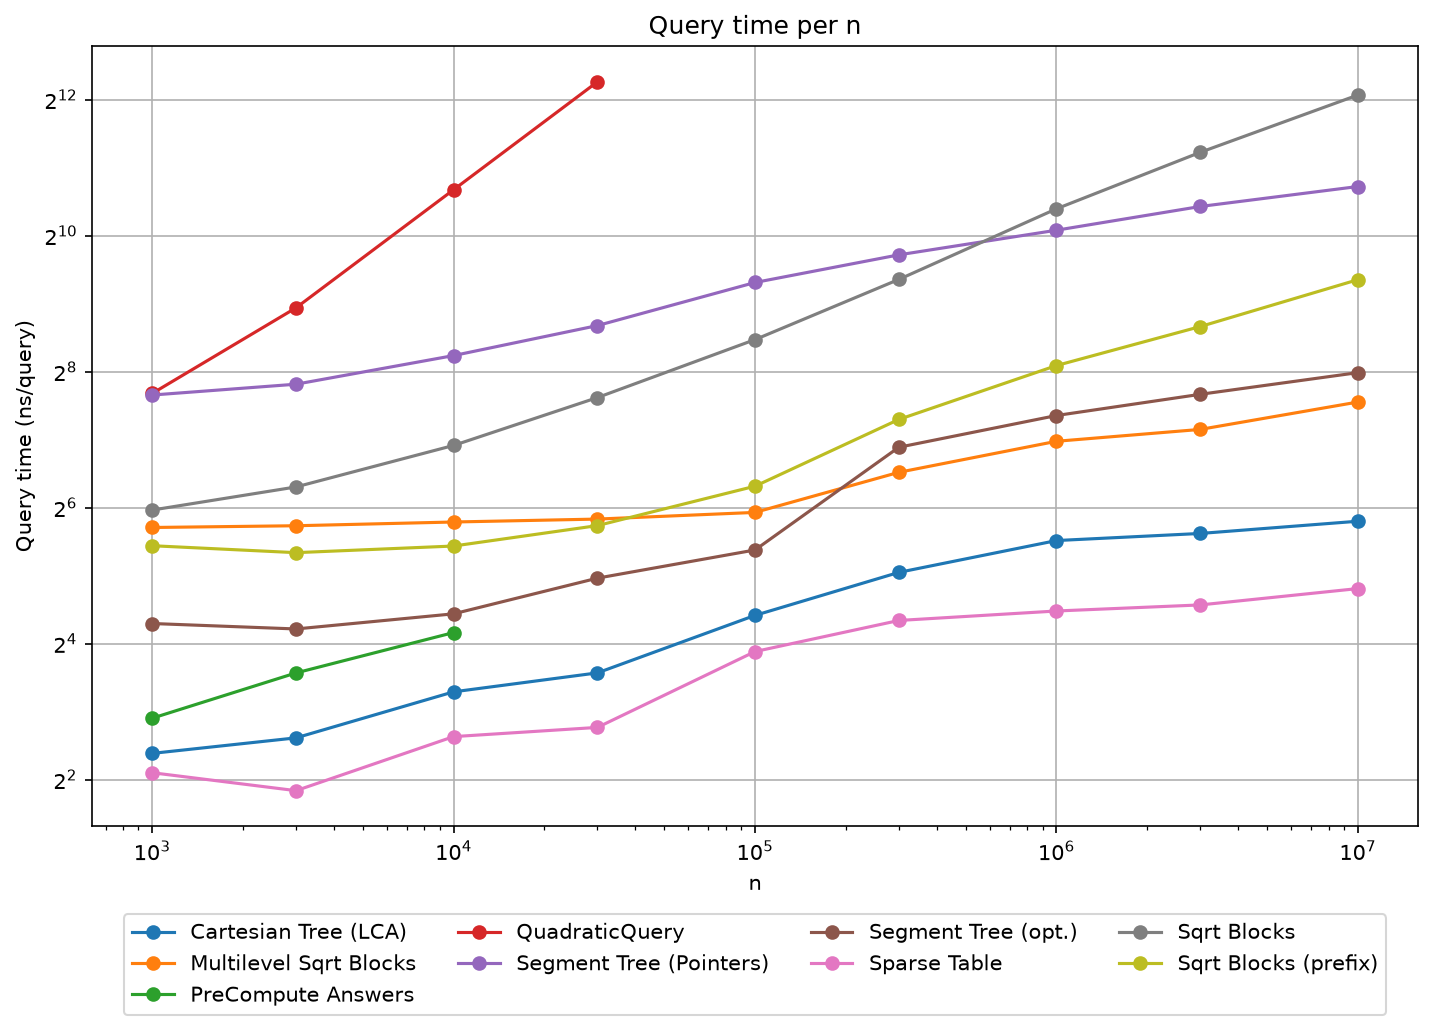
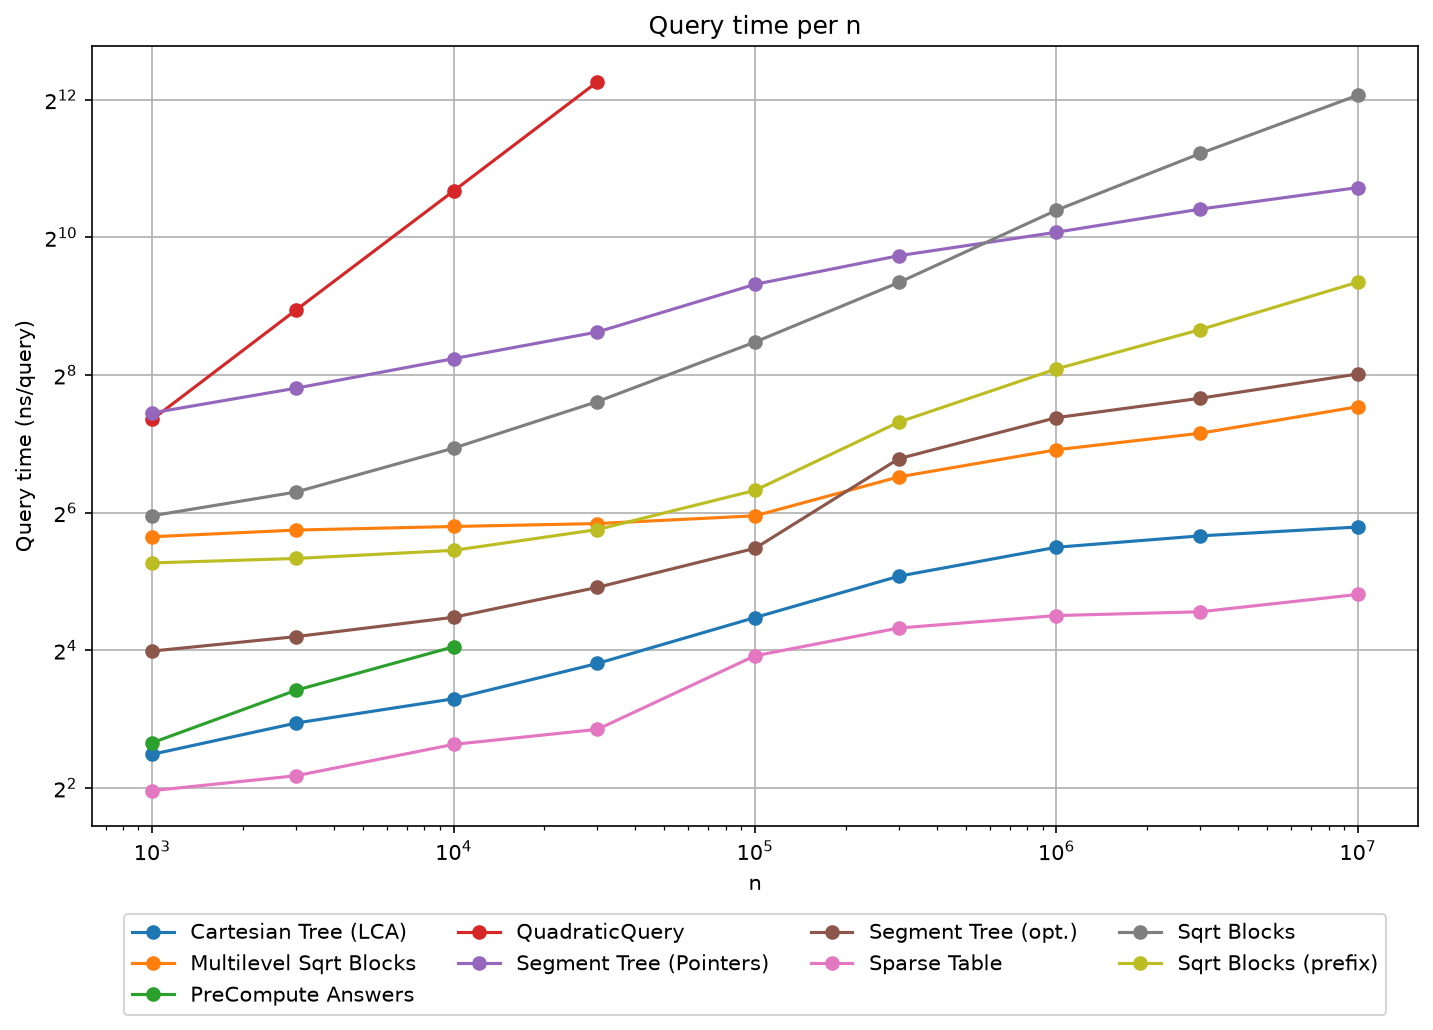
use a 1d vector for the precompute everything

diff --git a/rmq-cpp/main.cpp b/rmq-cpp/main.cpp
@@ -198,28 +198,28 @@ struct PreComputeAllAnswers
 	static size_t max_n() { return 10'000; }
 
 	const std::vector<uint64_t> *data;
-	const std::vector<std::vector<uint64_t>> ans;
+	const std::vector<uint64_t> ans;
 
 	static PreComputeAllAnswers build(const std::vector<uint64_t> &data)
 	{
 		size_t sz = data.size();
-		std::vector<std::vector<uint64_t>> ans(sz, std::vector<uint64_t>(sz));
+		std::vector<uint64_t> ans(sz * sz);
 		for (size_t i = 0; i < sz; i++)
 		{
-			ans[i][i] = data[i];
+			ans[i * sz + i] = data[i];
 			for (size_t j = i + 1; j < sz; j++)
 			{
-				ans[i][j] = std::min(data[j], ans[i][j - 1]);
+				ans[i * sz + j] = std::min(data[j], ans[i * sz + j - 1]);
 			}
 		}
 		return {&data, ans};
 	}
 
-	size_t space() const { return sizeof(*this) + (ans.size() * ans[0].size() * sizeof(uint64_t)); }
+	size_t space() const { return sizeof(*this) + (ans.size() * sizeof(uint64_t)); }
 
 	uint64_t query(size_t l, size_t r) const
 	{
-		return ans[l][r];
+		return ans[l * (*data).size() + r];
 	}
 };
 